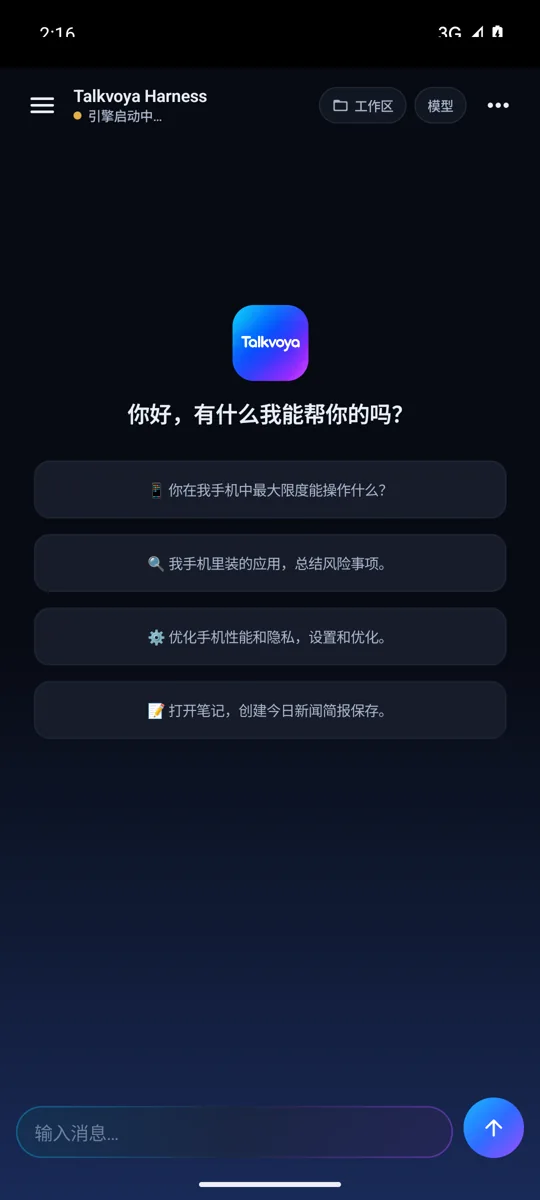
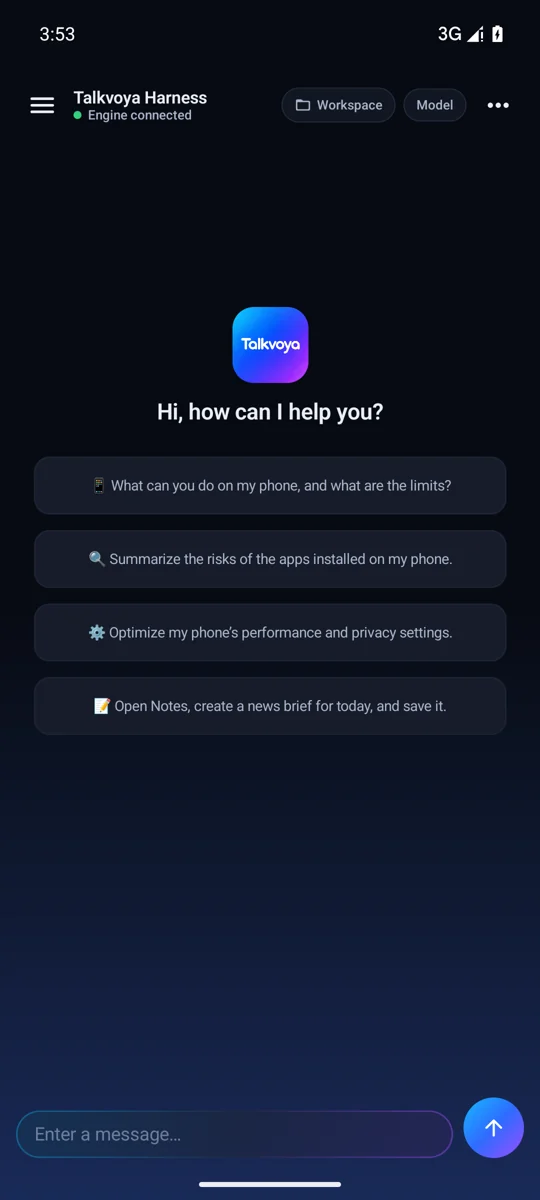
Show the Talkvoya poster and English dark app screens

diff --git a/docs/assets/site.css b/docs/assets/site.css
@@ -1,1 +1,3 @@
 :root{color-scheme:light;--ink:#142039;--muted:#4b5a74;--blue:#164ec9;--line:#dce5f5;--surface:#fff;--bg:#f6f8ff}*{box-sizing:border-box}body{margin:0;color:var(--ink);background:var(--bg);font:16px/1.65 system-ui,-apple-system,BlinkMacSystemFont,"Segoe UI",sans-serif}a{color:var(--blue);text-underline-offset:.2em}a:focus-visible{outline:3px solid #0077c8;outline-offset:4px;border-radius:4px}.skip{position:absolute;left:1rem;top:-5rem;padding:.5rem;background:#fff;z-index:2}.skip:focus{top:1rem}header{background:#fff;border-bottom:1px solid var(--line)}.bar,main,footer>div{width:min(1080px,calc(100% - 48px));margin:auto}.bar{min-height:70px;display:flex;align-items:center;justify-content:space-between;gap:1rem;padding:.6rem 0}.brand{display:inline-flex;flex-shrink:0}.brand img{object-fit:contain}nav,footer>div{display:flex;flex-wrap:wrap;gap:.55rem 1.15rem;align-items:center}nav a{color:var(--muted);text-decoration:none;font-size:.92rem;white-space:nowrap}nav a[aria-current]{color:var(--blue);font-weight:700}.language{padding:.15rem .7rem;border:1px solid var(--line);border-radius:999px}main{padding:2.5rem 0 3rem}.hero{padding:clamp(1.6rem,6vw,4.2rem);border:1px solid #cfdef8;border-radius:24px;background:radial-gradient(ellipse at 95% 100%,#dcd9ff 0,transparent 60%),linear-gradient(128deg,#fff 10%,#eaf5ff 75%)}.eyebrow{color:#214d9e;margin:0 0 .6rem;font-size:.84rem;font-weight:750;letter-spacing:.06em}h1,h2,h3{line-height:1.2}h1{margin:0;font-size:clamp(2rem,7vw,4rem);letter-spacing:-.044em}.lead{font-size:clamp(1.05rem,2vw,1.28rem);max-width:44rem;color:var(--muted);margin:.9rem 0}.actions{display:flex;align-items:center;flex-wrap:wrap;gap:.7rem 1rem;margin-top:1.45rem}.button{display:inline-flex;min-height:46px;align-items:center;padding:.52rem 1.1rem;background:#184dc9;color:#fff;text-decoration:none;font-weight:700;border-radius:10px}.button:hover{background:#123b9f}.badge{padding:.25rem .65rem;border:1px solid #c0d5fa;border-radius:999px;color:#214589;font-size:.86rem;background:#f3f8ff}.content{margin:1.5rem 0 0;background:var(--surface);padding:clamp(1.15rem,4vw,2.75rem);border:1px solid var(--line);border-radius:20px;overflow-wrap:anywhere}.content h2{margin:2rem 0 .7rem;font-size:1.45rem}.content h3{font-size:1.14rem}.content ul,.content ol{padding-inline-start:1.35rem}.content li+li{margin-top:.3rem}.content>p:first-child{margin-top:0}.content table{width:100%;border-collapse:collapse;margin:1rem 0}.content th,.content td{border-bottom:1px solid var(--line);padding:.55rem .65rem;text-align:start;vertical-align:top}.content th{background:#edf4ff}.content pre{padding:.65rem .85rem;background:#eef4ff;border-radius:8px;white-space:pre-wrap;overflow-wrap:anywhere}.content img{max-width:100%;height:auto}.app img{width:min(44%,240px);margin:.5rem 1rem .5rem 0;border:1px solid var(--line);border-radius:16px;vertical-align:top}.content blockquote{margin:1em 0;border-inline-start:3px solid #a8c5fa;padding-inline-start:1rem;color:var(--muted)}footer{border-top:1px solid var(--line);background:#fff}footer>div{padding:1rem 0;color:var(--muted);font-size:.88rem}@media(max-width:660px){.bar,main,footer>div{width:calc(100% - 28px)}.bar{align-items:flex-start;flex-direction:column;gap:.4rem}nav{gap:.45rem .75rem}main{padding-top:1rem}.hero{border-radius:17px}.content{border-radius:14px}.app img{margin-right:.35rem}}
+
+.harness-gallery-grid{display:grid;grid-template-columns:repeat(3,minmax(0,1fr));gap:1rem;align-items:start}.harness-gallery figure{margin:0;min-width:0}.content .harness-gallery img{display:block;width:100%;height:auto;margin:0;border:1px solid var(--line);border-radius:14px}.harness-gallery figcaption{padding:.5rem .05rem;color:var(--muted);font-size:.84rem;line-height:1.35}@media(max-width:660px){.harness-gallery-grid{grid-template-columns:repeat(2,minmax(0,1fr));gap:.75rem}.harness-gallery figure:first-child{grid-column:1/-1;width:min(100%,290px);justify-self:center}}

diff --git a/docs/harness/index.html b/docs/harness/index.html
@@ -24,9 +24,11 @@
 <li><strong>Follow the task.</strong> See tool activity and use the optional overlay to follow progress, add instructions, or stop the task.</li>
 <li><strong>Enable phone control when you need it.</strong> Manage Accessibility permissions and your sensitive-app list on your device.</li>
 </ul>
-<h2>A look at the app</h2>
-<p><img src="../assets/harness-light.webp" alt="Talkvoya Harness new chat in light mode, Android emulator" /> <img src="../assets/harness-dark.webp" alt="Talkvoya Harness new chat in dark mode, Android emulator" /></p>
-<p>The screenshots show the app’s Simplified Chinese interface. English is also available from Settings.</p>
+<section class="harness-gallery" aria-labelledby="app-preview"><h2 id="app-preview">App preview</h2><div class="harness-gallery-grid">
+<figure><img src="../assets/harness-poster.webp" alt="Talkvoya Harness download poster" loading="lazy" decoding="async"><figcaption>Talkvoya Harness download poster</figcaption></figure>
+<figure><img src="../assets/harness-dark.webp" alt="Talkvoya Harness new chat in English dark mode" loading="lazy" decoding="async"><figcaption>Talkvoya Harness new chat in English dark mode</figcaption></figure>
+<figure><img src="../assets/harness-settings.webp" alt="Talkvoya Harness settings in English dark mode" loading="lazy" decoding="async"><figcaption>Talkvoya Harness settings in English dark mode</figcaption></figure>
+</div></section>
 <h2>Get started</h2>
 <p><a href="../download/">Download center</a> · <a href="../guide/">Install and troubleshoot</a> · <a href="../releases/">Latest release notes</a> · <a href="../trust/">Privacy, permissions, and licenses</a> · <a href="../support/">Contact Talkvoya</a></p>
 </article></main>

diff --git a/docs/zh-cn/harness/index.html b/docs/zh-cn/harness/index.html
@@ -24,9 +24,11 @@
 <li><strong>跟进任务进度。</strong> 查看工具活动，按需使用悬浮窗跟进、补充指令或停止任务。</li>
 <li><strong>按需开启手机操控。</strong> 在设备上管理无障碍权限和敏感应用名单。</li>
 </ul>
-<h2>应用界面</h2>
-<p><img src="../../assets/harness-light.webp" alt="Talkvoya Harness 浅色新对话，Android 模拟器截图" /> <img src="../../assets/harness-dark.webp" alt="Talkvoya Harness 深色新对话，Android 模拟器截图" /></p>
-<p>截图为简体中文界面，可在设置中切换为英文。</p>
+<section class="harness-gallery" aria-labelledby="app-preview"><h2 id="app-preview">应用界面</h2><div class="harness-gallery-grid">
+<figure><img src="../../assets/harness-poster.webp" alt="Talkvoya Harness download poster" loading="lazy" decoding="async"><figcaption>Talkvoya Harness download poster</figcaption></figure>
+<figure><img src="../../assets/harness-dark.webp" alt="Talkvoya Harness new chat in English dark mode" loading="lazy" decoding="async"><figcaption>Talkvoya Harness new chat in English dark mode</figcaption></figure>
+<figure><img src="../../assets/harness-settings.webp" alt="Talkvoya Harness settings in English dark mode" loading="lazy" decoding="async"><figcaption>Talkvoya Harness settings in English dark mode</figcaption></figure>
+</div></section>
 <h2>开始使用</h2>
 <p><a href="../download/">下载中心</a> · <a href="../guide/">安装与故障排查</a> · <a href="../releases/">最新版本说明</a> · <a href="../trust/">隐私、权限与许可</a> · <a href="../support/">联系我们</a></p>
 </article></main>

diff --git a/docs/zh-cn/index.html b/docs/zh-cn/index.html
@@ -20,6 +20,11 @@
 <h3>Talkvoya Harness</h3>
 <p>在 Android 上对话、处理文档，并按需开启手机操控。应用永久免费使用，请使用自己的模型 API 密钥。</p>
 <p><a href="harness/"><strong>了解 Talkvoya Harness</strong></a> · <a href="download/">下载中心</a></p>
+<section class="harness-gallery" aria-labelledby="app-preview"><h2 id="app-preview">应用界面</h2><div class="harness-gallery-grid">
+<figure><img src="../assets/harness-poster.webp" alt="Talkvoya Harness download poster" loading="lazy" decoding="async"><figcaption>Talkvoya Harness download poster</figcaption></figure>
+<figure><img src="../assets/harness-dark.webp" alt="Talkvoya Harness new chat in English dark mode" loading="lazy" decoding="async"><figcaption>Talkvoya Harness new chat in English dark mode</figcaption></figure>
+<figure><img src="../assets/harness-settings.webp" alt="Talkvoya Harness settings in English dark mode" loading="lazy" decoding="async"><figcaption>Talkvoya Harness settings in English dark mode</figcaption></figure>
+</div></section>
 <h2>帮助与信任</h2>
 <p><a href="guide/">安装与使用帮助</a> · <a href="trust/">隐私与权限</a> · <a href="support/">联系我们</a> · <a href="security/">安全政策</a></p>
 <h2>官方渠道</h2>

diff --git a/docs/index.html b/docs/index.html
@@ -20,6 +20,11 @@
 <h3>Talkvoya Harness</h3>
 <p>An Android workspace for AI chat, document tasks, and optional phone control. Free to use forever. Bring your own model API key.</p>
 <p><a href="harness/"><strong>Explore Talkvoya Harness</strong></a> · <a href="download/">Download center</a></p>
+<section class="harness-gallery" aria-labelledby="app-preview"><h2 id="app-preview">App preview</h2><div class="harness-gallery-grid">
+<figure><img src="assets/harness-poster.webp" alt="Talkvoya Harness download poster" loading="lazy" decoding="async"><figcaption>Talkvoya Harness download poster</figcaption></figure>
+<figure><img src="assets/harness-dark.webp" alt="Talkvoya Harness new chat in English dark mode" loading="lazy" decoding="async"><figcaption>Talkvoya Harness new chat in English dark mode</figcaption></figure>
+<figure><img src="assets/harness-settings.webp" alt="Talkvoya Harness settings in English dark mode" loading="lazy" decoding="async"><figcaption>Talkvoya Harness settings in English dark mode</figcaption></figure>
+</div></section>
 <h2>Help and trust</h2>
 <p><a href="guide/">Install and get help</a> · <a href="trust/">Privacy and permissions</a> · <a href="support/">Support</a> · <a href="security/">Security</a></p>
 <h2>Official channels</h2>

diff --git a/docs/zh-cn/download/index.html b/docs/zh-cn/download/index.html
@@ -46,6 +46,11 @@
 </tr>
 </tbody>
 </table>
+<section class="harness-gallery" aria-labelledby="app-preview"><h2 id="app-preview">应用界面</h2><div class="harness-gallery-grid">
+<figure><img src="../../assets/harness-poster.webp" alt="Talkvoya Harness download poster" loading="lazy" decoding="async"><figcaption>Talkvoya Harness download poster</figcaption></figure>
+<figure><img src="../../assets/harness-dark.webp" alt="Talkvoya Harness new chat in English dark mode" loading="lazy" decoding="async"><figcaption>Talkvoya Harness new chat in English dark mode</figcaption></figure>
+<figure><img src="../../assets/harness-settings.webp" alt="Talkvoya Harness settings in English dark mode" loading="lazy" decoding="async"><figcaption>Talkvoya Harness settings in English dark mode</figcaption></figure>
+</div></section>
 <h2>校验下载文件</h2>
 <ol>
 <li>下载 APK 和 <a href="https://github.com/Talkvoya/Talkvoya.com/releases/download/v1.5.7/talkvoya-harness-1.5.7-arm64.apk.sha256">SHA-256 校验文件</a>。</li>

diff --git a/docs/download/index.html b/docs/download/index.html
@@ -46,6 +46,11 @@
 </tr>
 </tbody>
 </table>
+<section class="harness-gallery" aria-labelledby="app-preview"><h2 id="app-preview">App preview</h2><div class="harness-gallery-grid">
+<figure><img src="../assets/harness-poster.webp" alt="Talkvoya Harness download poster" loading="lazy" decoding="async"><figcaption>Talkvoya Harness download poster</figcaption></figure>
+<figure><img src="../assets/harness-dark.webp" alt="Talkvoya Harness new chat in English dark mode" loading="lazy" decoding="async"><figcaption>Talkvoya Harness new chat in English dark mode</figcaption></figure>
+<figure><img src="../assets/harness-settings.webp" alt="Talkvoya Harness settings in English dark mode" loading="lazy" decoding="async"><figcaption>Talkvoya Harness settings in English dark mode</figcaption></figure>
+</div></section>
 <h2>Verify the download</h2>
 <ol>
 <li>Download the APK and the <a href="https://github.com/Talkvoya/Talkvoya.com/releases/download/v1.5.7/talkvoya-harness-1.5.7-arm64.apk.sha256">SHA-256 file</a>.</li>

diff --git a/TalkvoyaHarness/README.md b/TalkvoyaHarness/README.md
@@ -15,11 +15,9 @@ Free to use forever for Android ARM64. Bring your own model API key. Your model 
 - **Follow the task.** See tool activity and use the optional overlay to follow progress, add instructions, or stop the task.
 - **Enable phone control when you need it.** Manage Accessibility permissions and your sensitive-app list on your device.
 
-## A look at the app
+## App preview
 
-<img src="../docs/assets/harness-light.webp" width="215" alt="Talkvoya Harness new chat in light mode, Android emulator"> <img src="../docs/assets/harness-dark.webp" width="215" alt="Talkvoya Harness new chat in dark mode, Android emulator">
-
-The screenshots show the app’s Simplified Chinese interface. English is also available from Settings.
+<img src="../docs/assets/harness-poster.webp" width="275" alt="Talkvoya Harness download poster"> <img src="../docs/assets/harness-dark.webp" width="215" alt="Talkvoya Harness new chat in English dark mode"> <img src="../docs/assets/harness-settings.webp" width="215" alt="Talkvoya Harness settings in English dark mode">
 
 ## Get started
 

diff --git a/README.md b/README.md
@@ -14,6 +14,10 @@ An Android workspace for AI chat, document tasks, and optional phone control. Fr
 
 [**Explore Talkvoya Harness**](TalkvoyaHarness/README.md) · [Download center](TalkvoyaHarness/DOWNLOAD.en.md)
 
+## App preview
+
+<img src="docs/assets/harness-poster.webp" width="275" alt="Talkvoya Harness download poster"> <img src="docs/assets/harness-dark.webp" width="215" alt="Talkvoya Harness new chat in English dark mode"> <img src="docs/assets/harness-settings.webp" width="215" alt="Talkvoya Harness settings in English dark mode">
+
 ## Help and trust
 
 [Install and get help](TalkvoyaHarness/HELP.en.md) · [Privacy and permissions](TalkvoyaHarness/TRUST.en.md) · [Support](SUPPORT.md) · [Security](SECURITY.md)

diff --git a/TalkvoyaHarness/README.zh-CN.md b/TalkvoyaHarness/README.zh-CN.md
@@ -17,9 +17,7 @@
 
 ## 应用界面
 
-<img src="../docs/assets/harness-light.webp" width="215" alt="Talkvoya Harness 浅色新对话，Android 模拟器截图"> <img src="../docs/assets/harness-dark.webp" width="215" alt="Talkvoya Harness 深色新对话，Android 模拟器截图">
-
-截图为简体中文界面，可在设置中切换为英文。
+<img src="../docs/assets/harness-poster.webp" width="275" alt="Talkvoya Harness download poster"> <img src="../docs/assets/harness-dark.webp" width="215" alt="Talkvoya Harness new chat in English dark mode"> <img src="../docs/assets/harness-settings.webp" width="215" alt="Talkvoya Harness settings in English dark mode">
 
 ## 开始使用
 

diff --git a/TalkvoyaHarness/DOWNLOAD.md b/TalkvoyaHarness/DOWNLOAD.md
@@ -14,6 +14,10 @@
 | 运行环境 | 首次安装请预留约 1.4 GB 空间 |
 | 费用 | 应用永久免费使用，所选模型服务商可能按用量收费 |
 
+## 应用界面
+
+<img src="../docs/assets/harness-poster.webp" width="275" alt="Talkvoya Harness download poster"> <img src="../docs/assets/harness-dark.webp" width="215" alt="Talkvoya Harness new chat in English dark mode"> <img src="../docs/assets/harness-settings.webp" width="215" alt="Talkvoya Harness settings in English dark mode">
+
 ## 校验下载文件
 
 1. 下载 APK 和 [SHA-256 校验文件](https://github.com/Talkvoya/Talkvoya.com/releases/download/v1.5.7/talkvoya-harness-1.5.7-arm64.apk.sha256)。

diff --git a/TalkvoyaHarness/DOWNLOAD.en.md b/TalkvoyaHarness/DOWNLOAD.en.md
@@ -14,6 +14,10 @@
 | Runtime setup | Allow about 1.4 GB of free space |
 | Price | Free to use forever. Your chosen model provider may charge for usage. |
 
+## App preview
+
+<img src="../docs/assets/harness-poster.webp" width="275" alt="Talkvoya Harness download poster"> <img src="../docs/assets/harness-dark.webp" width="215" alt="Talkvoya Harness new chat in English dark mode"> <img src="../docs/assets/harness-settings.webp" width="215" alt="Talkvoya Harness settings in English dark mode">
+
 ## Verify the download
 
 1. Download the APK and the [SHA-256 file](https://github.com/Talkvoya/Talkvoya.com/releases/download/v1.5.7/talkvoya-harness-1.5.7-arm64.apk.sha256).
